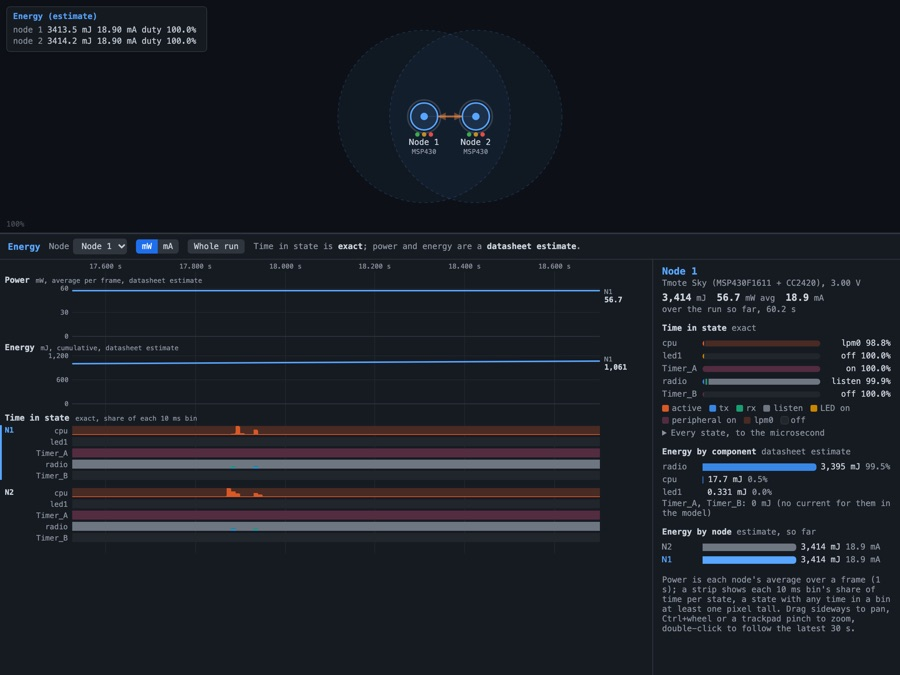
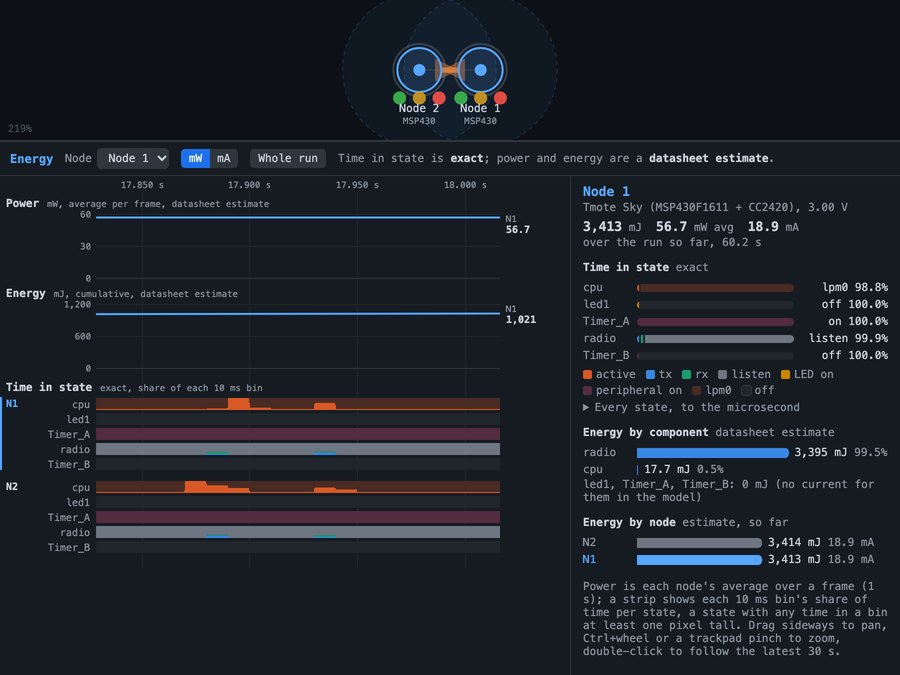
site: the energy ladder and sleepy-end-device cards replace energyot (recorded, live, view=energy; figures from the recordings), card images regenerated; docs list the energy examples and the measured recording sizes

diff --git a/site/index.html b/site/index.html
@@ -323,14 +323,24 @@
           <div class="go"><a href="player.html?replay=demos/energest.json&amp;view=energy">Play →</a><a class="live" href="player.html?wasm=energest&amp;view=energy">Run it live ▶</a><a class="src" href="https://github.com/mikroverk/cooja-ng/blob/main/configs/plugin-energest-builtin-v2.json">config ↗</a></div>
         </div>
       </article>
-      <article class="card" data-demo="energyot">
-        <a class="shot" href="player.html?replay=demos/energyot.json&amp;view=energy"><img src="assets/demo-energyot.jpg" alt="The Energy view of four CC2538DKs: the two OpenThread nodes draw about 111 mW with their CPU active all the time, the two Contiki-NG nodes about 76 mW with their CPU asleep 98 percent of the time" loading="lazy"></a>
+      <article class="card" data-demo="energyladder">
+        <a class="shot" href="player.html?replay=demos/energyladder.json&amp;view=energy"><img src="assets/demo-energyladder.jpg" alt="The Energy view of six nRF52840 DKs in three pairs: the OpenThread pair's CPU and radio strips are solid, the Contiki-NG CSMA pair's radio is solid with a CPU that barely wakes, and the TSCH pair's CPU and radio show thin regular slots; the power chart ranks them about 24, 14 and 1 mW" loading="lazy"></a>
         <div class="body">
-          <div class="meta"><span>4 × CC2538DK</span><span>Contiki-NG · OpenThread</span></div>
-          <h3>Same chip: a port that spins, one that sleeps</h3>
-          <p>One board, two stacks, two networks out of each other's range. Contiki-NG puts the CC2538 to sleep between events; this OpenThread port never sleeps, so its CPU is active 100% of the time. Both keep the radio listening, which dominates, and the datasheet estimate comes to about 37 mA for OpenThread against 25 mA for Contiki-NG.</p>
+          <div class="meta"><span>6 × nRF52840 DK</span><span>OpenThread · CSMA · TSCH</span></div>
+          <h3>Three rungs of waste on one chip</h3>
+          <p>Three pairs, three networks. OpenThread never sleeps the CPU and keeps the radio listening: active 100%, on 100%. Contiki-NG over CSMA sleeps the CPU (0.4% active) but listens all the time. The same application over TSCH wakes both only for its slots: CPU 4.0%, radio 4.6%. Over the last minute: 8.1, 4.8 and 0.36 mA. Time in state is exact; those currents are nRF52840 figures not yet checked against the datasheet, and the view says so.</p>
           <p class="stats"></p>
-          <div class="go"><a href="player.html?replay=demos/energyot.json&amp;view=energy">Play →</a><a class="live" href="player.html?wasm=energyot&amp;view=energy">Run it live ▶</a><a class="src" href="https://github.com/mikroverk/cooja-ng/blob/main/examples/energy-ot-vs-contiki-cc2538.yaml">config ↗</a></div>
+          <div class="go"><a href="player.html?replay=demos/energyladder.json&amp;view=energy">Play →</a><a class="live" href="player.html?wasm=energyladder&amp;view=energy">Run it live ▶</a><a class="src" href="https://github.com/mikroverk/cooja-ng/blob/main/examples/energy-ladder-nrf52840.yaml">config ↗</a></div>
+        </div>
+      </article>
+      <article class="card" data-demo="energysleepy">
+        <a class="shot" href="player.html?replay=demos/energysleepy.json&amp;view=energy"><img src="assets/demo-energysleepy.jpg" alt="The Energy view of two CC2538DKs running OpenThread: the sleepy child's radio strip is empty but for a poll every second, while its CPU strip is solid, the same as the leader's" loading="lazy"></a>
+        <div class="body">
+          <div class="meta"><span>2 × CC2538DK</span><span>OpenThread · sleepy end device</span></div>
+          <h3>The radio sleeps; the CPU doesn't</h3>
+          <p>A Thread leader and a sleepy child that polls it once a second. Over the last 30 seconds the child's radio is on 7.4% of the time, the leader's 100%, but both CPUs are active 100%: the CC2538 port's main loop never waits for an interrupt. By the datasheet that is 15.5 mA for the child, 13 mA of it the spinning CPU, and 37.7 mA for the leader.</p>
+          <p class="stats"></p>
+          <div class="go"><a href="player.html?replay=demos/energysleepy.json&amp;view=energy">Play →</a><a class="live" href="player.html?wasm=energysleepy&amp;view=energy">Run it live ▶</a><a class="src" href="https://github.com/mikroverk/cooja-ng/blob/main/examples/energy-ot-sleepy-cc2538.yaml">config ↗</a></div>
         </div>
       </article>
       <article class="card" data-demo="zephyr">

diff --git a/docs/energest.md b/docs/energest.md
@@ -28,6 +28,14 @@ cngsim run energy-sky --ui                       # the Sky pair, with the live p
 build/test_runner test examples/energy-sky.yaml  # headless: the table at the end
 ```
 
+Examples (`examples/`): `energy-sky` (two Tmote Skys), `energy-ot-vs-contiki-cc2538`
+(OpenThread and Contiki-NG on one CC2538DK), `energy-ladder-nrf52840` (OpenThread,
+Contiki-NG CSMA and Contiki-NG TSCH, the same application for the last two, on one
+nRF52840) and `energy-ot-sleepy-cc2538` (an OpenThread sleepy end device: the radio
+sleeps, the CPU does not).  `tools/energest-summary.py REC.json [--from S --to S]`
+prints per-node time in state and energy over a window of a recording, the figures
+the site's energy cards quote.
+
 File paths are relative to the directory the run starts in.  A key the plugin
 does not know — in `energest:`, or a board, component or state in `currents:`
 — stops the run before it starts (exit 2), as a misspelt plugin does.
@@ -197,11 +205,14 @@ function lanePermille(lane, n) {              // -> {state: [n permille]}
 }
 ```
 
-Size: the Sky pair (2 nodes, 60 s) records 61 frames of about 1.5 KB, 90 KB
-in all; the run's `--ui-record` document goes from 112 KB to 212 KB (the
-panel, re-recorded with every delta, is 78 KB of it).  The four CC2538s of
-`examples/energy-ot-vs-contiki-cc2538.yaml` (seven lanes on the Contiki-NG
-nodes) record 407 KB, 157 KB of it frames and 126 KB the panel.  A larger `bin_ms` shrinks the frames in proportion.
+Size: the Sky pair (2 nodes, 60 s) records 61 frames, 110 KB, and its
+`--ui-record` document is 135 KB (a recording carries the panel only when it
+changes, 8 KB here).  The site's energy demos: the six nRF52840s of
+`examples/energy-ladder-nrf52840.yaml` (90 s, `bin_ms: 50`) record 91 frames,
+315 KB of a 469 KB document; the two CC2538s of
+`examples/energy-ot-sleepy-cc2538.yaml` (60 s) 61 frames, 66 KB of 114 KB.
+A larger `bin_ms` shrinks the bins, a larger `frame_ms` the cumulative totals
+every frame repeats (most of a frame once its lanes are quiet).
 
 ## Energy view (web UI)
 
@@ -213,7 +224,9 @@ frames:
 - **Power** (mW, or mA at the node's `vcc`) and **Energy** (mJ,
   cumulative) per node, one chart each.  Power is each node's average over
   a frame: the µJ it added, divided by the time its totals grew (so a
-  node's first or last, partial frame is not diluted).  The selected node
+  node's first or last, partial frame is not diluted; a last stub under a
+  quarter of a frame — the run's final milliseconds — is averaged into the
+  frame before it rather than drawn as a step of its own).  The selected node
   is drawn in the accent colour with its value at the line's end, every
   other node in grey, which reads the same for 2 nodes and 20; hovering
   lists every node's value at that time.

diff --git a/CHANGELOG.md b/CHANGELOG.md
@@ -33,15 +33,27 @@ then, 0.x minor releases may adjust the CLI, config, and plugin ABI.
   ticks per 10 s (`tools/check-energest-agreement.py`).
 - `examples/energy-ot-vs-contiki-cc2538.yaml`: Contiki-NG and OpenThread
   on the same CC2538DK hardware, side by side (OpenThread's CC2538 port
-  never sleeps the CPU).
+  never sleeps the CPU).  The run passes only if the OpenThread pair is a
+  network (leader, child, an answered ping) and the Contiki-NG client gets
+  its responses.
+- Energy demos on the site, each gated on its networks working and with
+  its card's figures generated from the recording
+  (`tools/energest-summary.py`): **the energy ladder**
+  (`examples/energy-ladder-nrf52840.yaml`) — OpenThread, Contiki-NG CSMA
+  and Contiki-NG TSCH on one nRF52840, the last two one application built
+  with either MAC (`firmware/src/rpl-udp-mac`) — CPU active 100 / 0.4 /
+  4.0 % and radio on 100 / 100 / 4.6 %; and **an OpenThread sleepy end
+  device** (`examples/energy-ot-sleepy-cc2538.yaml`) whose radio is on
+  7.4 % of the time while its CPU is active 100 %.  They replace the
+  `energyot` card.  The energest panel says `radio on` where it said
+  `duty`, and a `--ui-record` carries the panels only when they change.
 - **The web UI's Energy view**, drawn from those frames, live, in a
   replay and in the in-browser run: power (mW or mA) and cumulative energy
   per node, the selected node highlighted, and a strip per component lane
   coloured by state, on the timeline's time axis; beside it the selected
   node's time in state per lane (exact), energy per component and per node
   (datasheet estimate, an unverified model flagged).  On the site, the
-  energest card opens it, and a second energy demo compares Contiki-NG and
-  OpenThread on one CC2538DK (`energyot`, recorded and live).  The frames
+  energest card opens it.  The frames
   now name each node's power model and supply voltage, and their
   cumulative totals are those at the frame's end: they used to run on into
   the next frame, which is emitted a frame late (only the last frame, the

diff --git a/wasm/README.md b/wasm/README.md
@@ -27,7 +27,7 @@ make -C wasm serve   # http://127.0.0.1:8765/  (the site + live demos; PORT=...)
 Open `http://127.0.0.1:8765/player.html?wasm=grid100`, or use a card's
 **Run it live** link on the landing page. The scenarios are in
 `web/scenarios.json`: `hello`, `udp`, `mixed`, `grid16`, `grid100`, `tsch`,
-`trustzone`, `energest`, `energyot`, `zephyr`, `riot`. Each one gives the runner arguments and the files it
+`trustzone`, `energest`, `energyladder`, `energysleepy`, `zephyr`, `riot`. Each one gives the runner arguments and the files it
 reads. Add `&arg=--log` to see the runner's console output in the browser
 console, and `&arg=<flag>` to pass any other runner flag.
 
